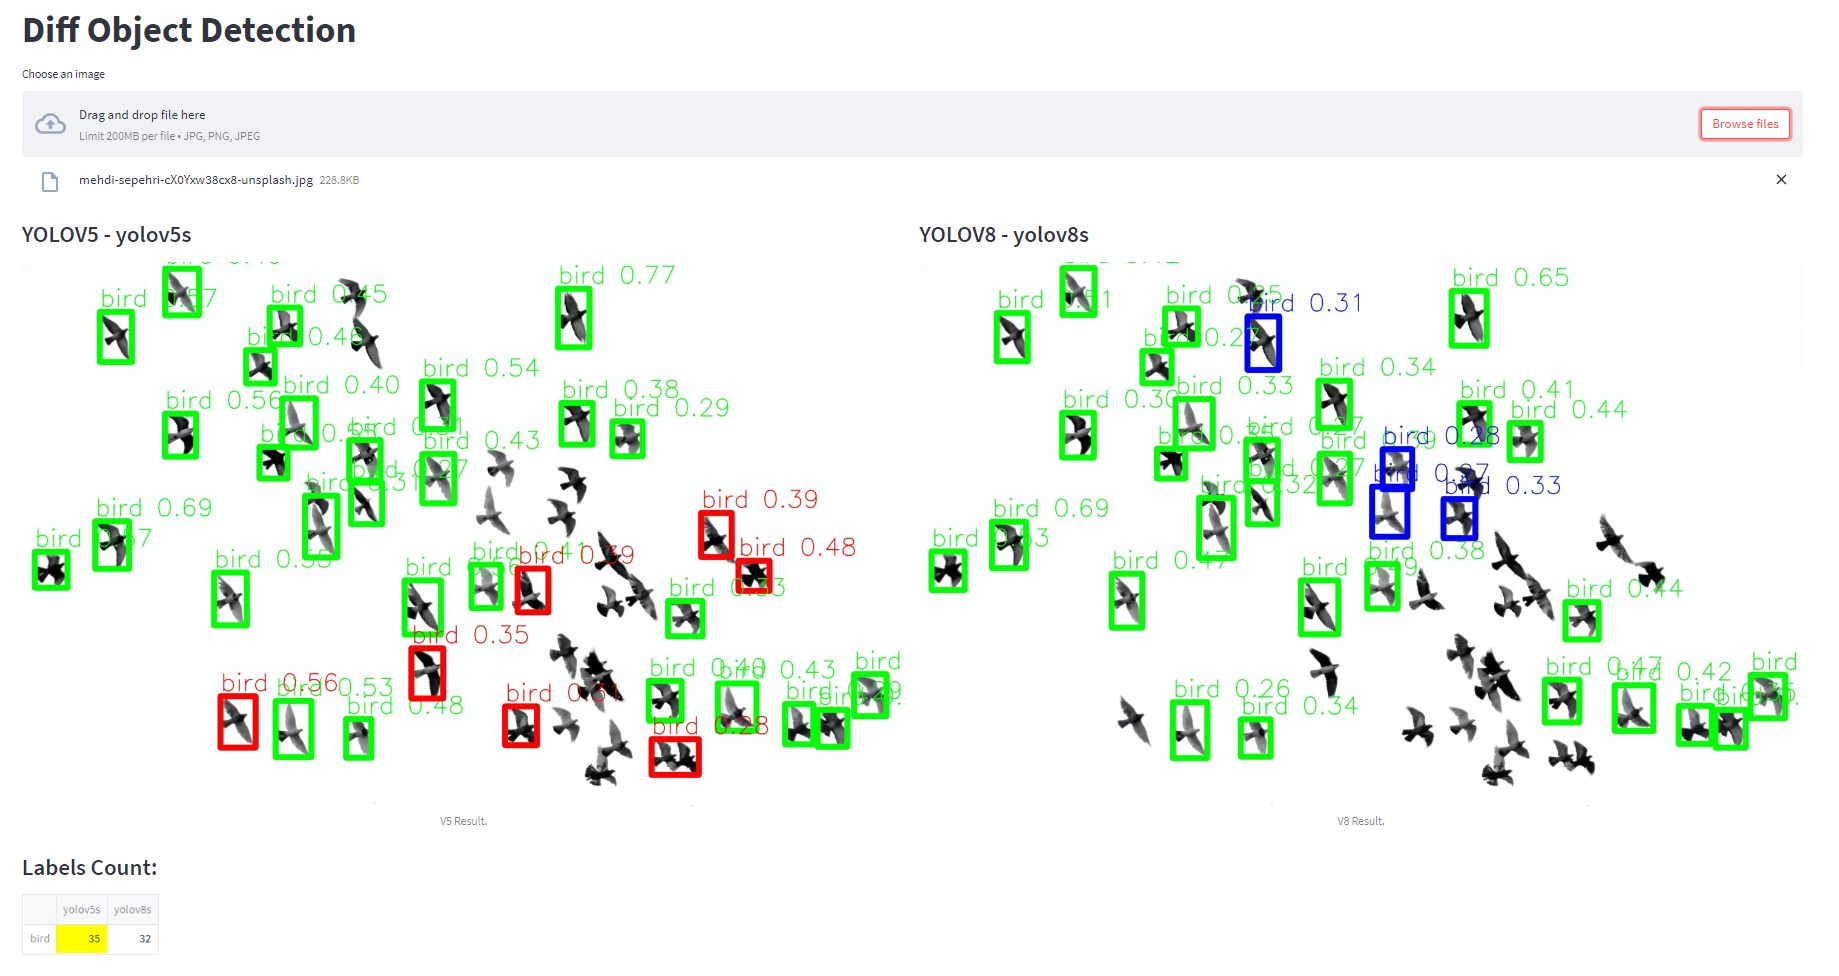
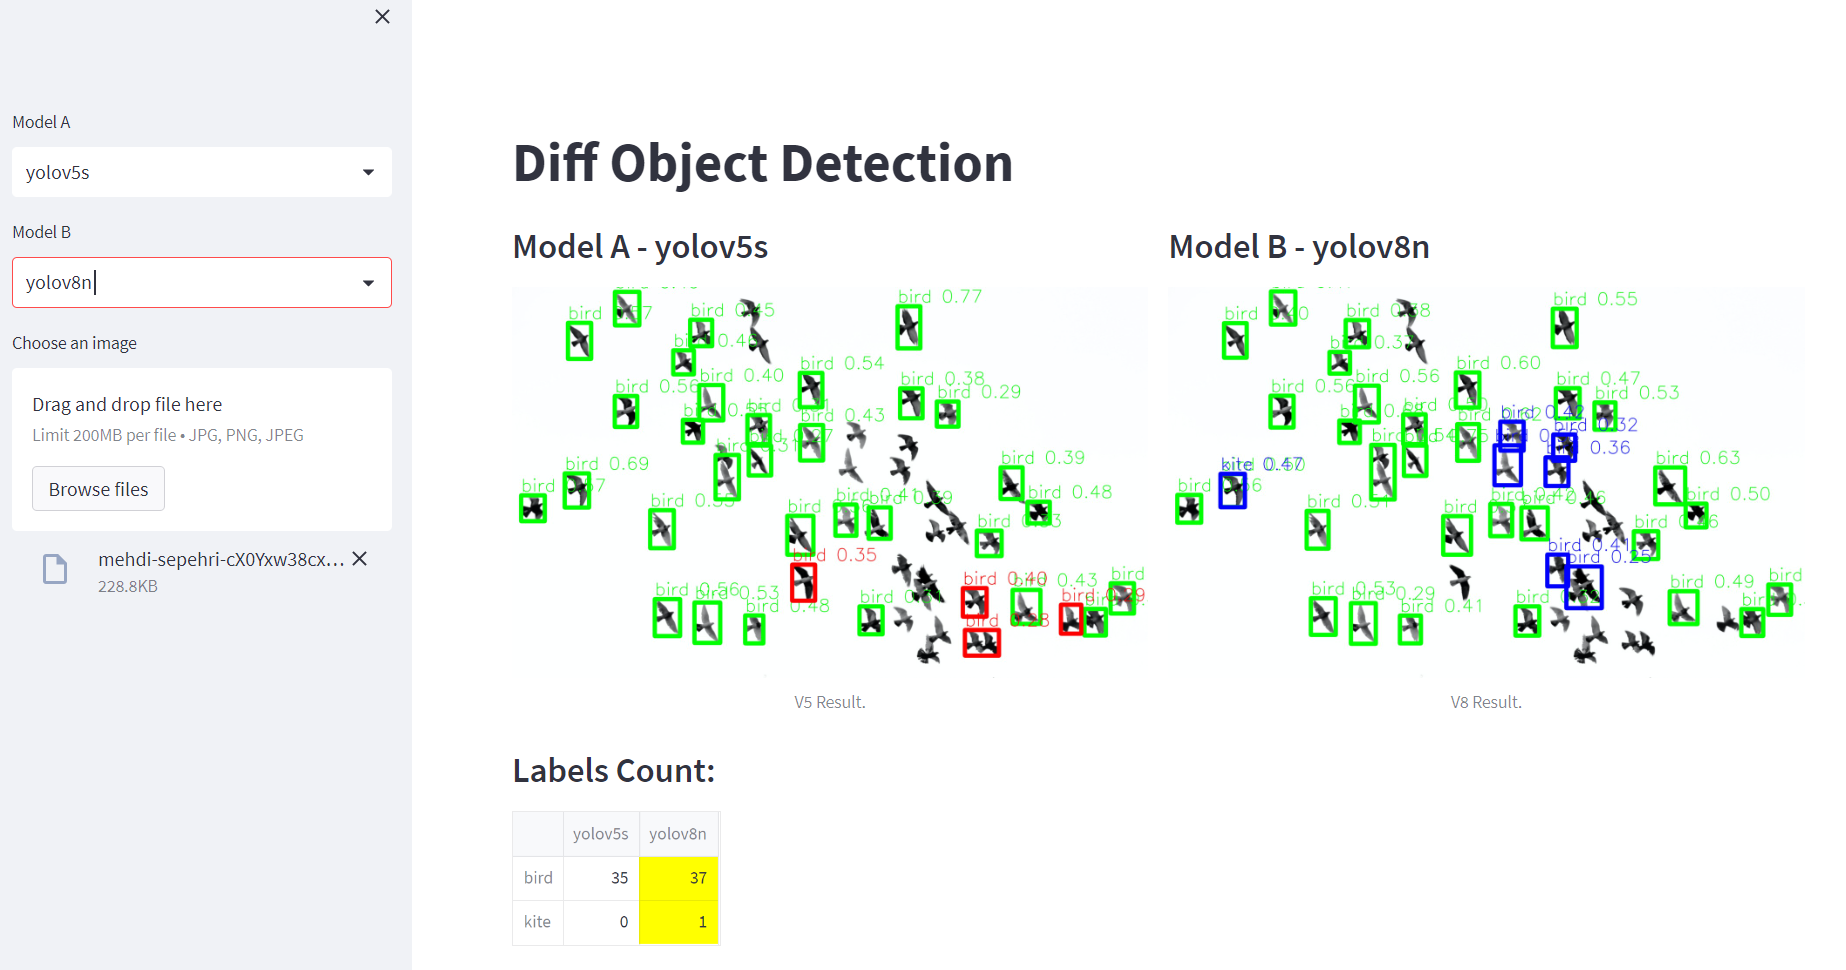
feat: add change models UI
- refactor the naming
- add model_name
- add sidebar ui including uploader, models-assigner.

diff --git a/sapp.py b/sapp.py
@@ -5,64 +5,65 @@ from streamlit import runtime
 
 import streamlit as st
 from PIL import Image
-
-import numpy as np
 import pandas as pd
-import math
-import cv2
 
 from ObjectDetectorYoloV5 import ObjectDetectorYoloV5
 from ObjectDetectorYoloV8 import ObjectDetectorYoloV8
 
 from compare_utility import *
-CONST_MODEL_01 = 'yolov5s'
-CONST_MODEL_02 = 'yolov8s'
-
-d_yolov5 = ObjectDetectorYoloV5({'model_name': CONST_MODEL_01})
-d_yolov8 = ObjectDetectorYoloV8({'model_name': CONST_MODEL_02})
+from image_utility import get_image_compare_result
 
 
-def get_image_compare_result(filename: str, lst_base, lst_to, color_same=(0, 255, 0), color_diff=(255, 0, 0)):
-    FONT_SCALE = 1.5 * 1e-3  # Adjust for larger font size in all images
-    FONT_THICKNESS_SCALE = 1e-3  # Adjust for larger thickness in all images
-    LINE_THICKNESS_SCALE = 1e-2  # Adjust for larger thickness in all images
-    TEXT_Y_OFFSET_SCALE = 1e-2  # Adjust for larger Y-offset of text and bounding box
+LIST_YOLOV5 = ["yolov5n", "yolov5s", "yolov5m", "yolov5l", "yolov5x"]
+LIST_YOLOV8 = ["yolov8n", "yolov8s", "yolov8m", "yolov8l", "yolov8x"]
+ALL_MODELS = LIST_YOLOV5 + LIST_YOLOV8
+SET_YOLOV5 = set(LIST_YOLOV5)
+SET_YOLOV8 = set(LIST_YOLOV8)
+idx_model_a = 1
+idx_model_b = 6
 
-    image = Image.open(filename)
-    image = image.convert("RGB")
-    image = np.array(image)
-    height, width, _ = image.shape
-    lst_results = get_iou_compare_result(lst_base, lst_to)
-    for obj in lst_results:
-        x1, y1, x2, y2, conf, label = obj['x1'], obj['y1'], obj['x2'], obj['y2'], obj['conf'], obj['label']
-        pt1 = (int(x1), int(y1))
-        pt2 = (int(x2), int(y2))
-        if obj.get('link', None) is None:
-            _color = color_diff
-        else:
-            _color = color_same
-        font_thickness = math.ceil(min(width, height) * FONT_THICKNESS_SCALE)
-        line_thickness = math.ceil(min(width, height) * LINE_THICKNESS_SCALE)
-        cv2.rectangle(image, pt1, pt2, _color, line_thickness)
-        _text = label + f" {conf:.2f}"
-        cv2.putText(image, _text, (pt1[0], pt1[1] - int(height * TEXT_Y_OFFSET_SCALE)),
-                    cv2.FONT_HERSHEY_SIMPLEX,
-                    min(width, height) * FONT_SCALE,
-                    _color, font_thickness)
+# initialize A B models
+model_a = ObjectDetectorYoloV5({'model_name':  ALL_MODELS[idx_model_a]})
+model_b = ObjectDetectorYoloV8({'model_name':  ALL_MODELS[idx_model_b]})
 
-    # Convert image from numpy array to PIL image
-    image = Image.fromarray(np.uint8(image))
-    return image
+
+def get_od_model(model_name: str):
+    if model_name in SET_YOLOV5:
+        return ObjectDetectorYoloV5({'model_name': model_name})
+    if model_name in SET_YOLOV8:
+        return ObjectDetectorYoloV8({'model_name': model_name})
+
+
+def on_change_model():
+    print(st.session_state['model_a'])
+    print(st.session_state['model_b'])
+    refresh_model(st.session_state['model_a'], st.session_state['model_b'])
+    pass
+
+
+def refresh_model(model_a_name, model_b_name):
+    global model_a, model_b
+    if model_a_name != model_a.model_name:
+        print(f"RENEW MODEL A AS {model_a_name}")
+        model_a.clear_model()
+        model_a = get_od_model(model_a_name)
+
+    if model_b_name != model_b.model_name:
+        print(f"RENEW MODEL B AS {model_b_name}")
+        model_b.clear_model()
+        model_b = get_od_model(model_b_name)
+    pass
 
 
 def get_df_stat(lst_r_1, lst_r_2):
     """
     compare count of the classes
     """
+    global model_a, model_b
     df1 = pd.DataFrame(lst_r_1)
     df2 = pd.DataFrame(lst_r_2)
-    df1['model'] = CONST_MODEL_01
-    df2['model'] = CONST_MODEL_02
+    df1['model'] = model_a.model_name
+    df2['model'] = model_b.model_name
     df = pd.concat([df1, df2])
     df_stat = df.groupby(['label', 'model']).agg({'conf': 'count'}).reset_index().pivot(columns='model', index='label', values='conf')
     df_stat = df_stat.fillna(0)
@@ -73,31 +74,41 @@ def get_df_stat(lst_r_1, lst_r_2):
 
 
 def main():
-
+    global model_b, model_a
     st.set_page_config(page_title="Diff Object Detection", page_icon="figure/compare.png", layout="wide")
 
     st.title("Diff Object Detection")
 
     # Create a file uploader widget
-    image_file = st.file_uploader("Choose an image", type=["jpg", "png", "jpeg"])
+    # image_file = st.file_uploader("Choose an image", type=["jpg", "png", "jpeg"])
+
+    result_v5 = st.sidebar.selectbox(
+        "Model A", ALL_MODELS, index=idx_model_a, on_change=on_change_model, key='model_a')
+
+    result_v8 = st.sidebar.selectbox(
+        "Model B", ALL_MODELS, index=idx_model_b, on_change=on_change_model, key='model_b')
+
+    image_file = st.sidebar.file_uploader("Choose an image", type=["jpg", "png", "jpeg"])
     col1, col2 = st.columns(2)
     if image_file is not None:
         # Open the image file
         _temp_name = 'temp.jpg'
         image = Image.open(image_file)
         image.save(_temp_name)
+        refresh_model(st.session_state['model_a'], st.session_state['model_b'])
 
-        lst_v5_result = d_yolov5.inference_as_json_by_filepath(_temp_name)
-        lst_v8_result = d_yolov8.inference_as_json_by_filepath(_temp_name)
-        df_stat = get_df_stat(lst_v5_result, lst_v8_result)
+        lst_result_a = model_a.inference_as_json_by_filepath(_temp_name)
+        lst_result_b = model_b.inference_as_json_by_filepath(_temp_name)
+        df_stat = get_df_stat(lst_result_a, lst_result_b)
         with col1:
-            st.subheader(f"YOLOV5 - {CONST_MODEL_01}")
-            image_1 = get_image_compare_result(_temp_name, copy.deepcopy(lst_v5_result), copy.deepcopy(lst_v8_result))
+            st.subheader(f"Model A - {model_a.model_name}")
+            image_1 = get_image_compare_result(_temp_name, copy.deepcopy(lst_result_a), copy.deepcopy(lst_result_b))
             st.image(image_1, caption='V5 Result.', use_column_width=True)
         with col2:
-            st.subheader(f"YOLOV8 - {CONST_MODEL_02}")
-            image_2 = get_image_compare_result(_temp_name, lst_v8_result, lst_v5_result, color_diff=(0, 0, 255))
+            st.subheader(f"Model B - {model_b.model_name}")
+            image_2 = get_image_compare_result(_temp_name, lst_result_b, lst_result_a, color_diff=(0, 0, 255))
             st.image(image_2, caption='V8 Result.', use_column_width=True)
+
         st.subheader(f"Labels Count:")
         st.dataframe(df_stat.style.highlight_max(axis=1))
 

diff --git a/image_utility.py b/image_utility.py
@@ -1,0 +1,50 @@
+from compare_utility import *
+import math
+import cv2
+import numpy as np
+from PIL import Image
+
+
+FONT_SCALE = 1.5 * 1e-3  # Adjust for larger font size in all images
+FONT_THICKNESS_SCALE = 1e-3  # Adjust for larger thickness in all images
+LINE_THICKNESS_SCALE = 1e-2  # Adjust for larger thickness in all images
+TEXT_Y_OFFSET_SCALE = 1e-2  # Adjust for larger Y-offset of text and bounding box
+
+
+def draw_bbox_by_dict_obj(img, obj, color):
+    x1, y1, x2, y2, conf, label = obj['x1'], obj['y1'], obj['x2'], obj['y2'], obj['conf'], obj['label']
+    pt1 = (int(x1), int(y1))
+    pt2 = (int(x2), int(y2))
+    height, width, _ = img.shape
+    font_thickness = math.ceil(min(width, height) * FONT_THICKNESS_SCALE)
+    line_thickness = math.ceil(min(width, height) * LINE_THICKNESS_SCALE)
+    cv2.rectangle(img, pt1, pt2, color, line_thickness)
+    _text = label + f" {conf:.2f}"
+    cv2.putText(img, _text, (pt1[0], pt1[1] - int(height * TEXT_Y_OFFSET_SCALE)),
+                cv2.FONT_HERSHEY_SIMPLEX,
+                min(width, height) * FONT_SCALE,
+                color, font_thickness)
+    return img
+
+
+def get_image_compare_result(filename: str, lst_base, lst_to, color_same=(0, 255, 0), color_diff=(255, 0, 0)):
+
+    image = Image.open(filename)
+    image = image.convert("RGB")
+    image = np.array(image)
+
+    lst_results = get_iou_compare_result(lst_base, lst_to)
+    
+    # Draw color_same first
+
+    for obj in lst_results:
+        if obj.get('link', None) is not None:
+            image = draw_bbox_by_dict_obj(image, obj, color_same)
+
+    for obj in lst_results:
+        if obj.get('link', None) is None:
+            image = draw_bbox_by_dict_obj(image, obj, color_diff)
+
+    # Convert image from numpy array to PIL image
+    image = Image.fromarray(np.uint8(image))
+    return image

diff --git a/ObjectDetector.py b/ObjectDetector.py
@@ -26,6 +26,7 @@ class ObjectDetector:
         """
         self.model = None
         self.labels = []
+        self.model_name = dic_cfg.get('model_name', 'dummy') 
         self.load_model(dic_cfg)
         pass
 
